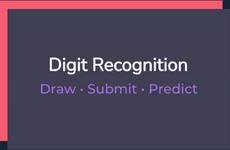
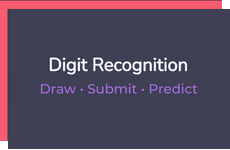
Added a background image and made changes to accommodate

Changed region(s): [[0.0, 0.9333, 1.0, 1.0], [0.9435, 0.0, 1.0, 0.08]]

diff --git a/index.html b/index.html
@@ -32,8 +32,8 @@
     <a href="#about"><button type="button" class="big-btn">About Me</button></a>
   </section>
 
-  <section class="home" id="about">
-    <text class="title">About Me</text>
+  <section class="home">
+    <text class="title" id="about">About Me</text>
     <hr class="line">
     <div class="about">
       <text class="about-text">Hello, I'm a computer science student at California State University
@@ -59,8 +59,8 @@
     <a class="resume-link" href="http://bit.ly/rgupta-resume" target="_blank"> <button type="button" class="big-btn resume-btn">Resume</button></a>
   </section>
 
-  <section class="home" id="exp">
-    <text class="title">Experience</text>
+  <section class="home">
+    <text class="title" id="exp">Experience</text>
     <hr class="line">
 
     <div class="exp">
@@ -115,8 +115,8 @@
     </div>
   </section>
 
-  <section class="home" id="projects">
-    <text class="title">Projects</text>
+  <section class="home">
+    <text class="title" id="projects">Projects</text>
     <hr class="line">
     
     <a class="exp project-btn" href="https://github.com/rahulio96/Digit-Recognition-App" target="_blank">
@@ -167,8 +167,8 @@
     </a>
   </section>
 
-  <section class="home" id="contact">
-    <text class="title">Contact</text>
+  <section class="home">
+    <text class="title" id="contact">Contact</text>
     <hr class="line">
     <div class="about">
       <text class="contact-text">Let’s get in touch! Feel free to reach me via email or phone.</text>

diff --git a/styles.css b/styles.css
@@ -8,7 +8,11 @@
 }
 
 body {
-    background-color: #172434;
+    background-image: url("images/background.png");
+    background-repeat: no-repeat;
+    background-attachment: fixed;
+    background-position: center;
+    height: 100%;
 }
 
 header nav {
@@ -77,7 +81,8 @@ nav ul li a:hover {
     font-size: xx-large;
     width: 100%;
     margin: 0 auto;
-    margin-top: 12%;
+    margin-top: 6%;
+    padding-top: 6%;
     padding-bottom: 20px;
 }
 
@@ -166,7 +171,7 @@ nav ul li a:hover {
 .big-btn {
     margin: 1em auto;
     position: relative;
-    background-color: #172434;
+    background-color: transparent;
     width: 100%;
     height: 2.5em;
     color: #F85C70;
@@ -239,7 +244,6 @@ nav ul li a:hover {
 }
 
 .project-btn {
-    background-color: #172434;
     padding: 1.5%;
     padding-left: 3px;
     padding-right: 3px;
@@ -286,7 +290,7 @@ footer nav {
     align-items: center;
     padding: 18px 10%;
     border-top: 1px solid #E1DDDD;
-    margin-top: 5%;
+    margin-top: 0;
 }
 
 @media only screen and (max-width: 780px) {
@@ -379,7 +383,16 @@ footer nav {
     }
 
     .contact {
-        padding: 3%;
+        padding: 5%;
+    }
+
+    .contact-text {
+        margin: 0.5em;
+    }
+
+    .title {
+        padding-top:22%;
+        margin-top: auto;
     }
 
 }
